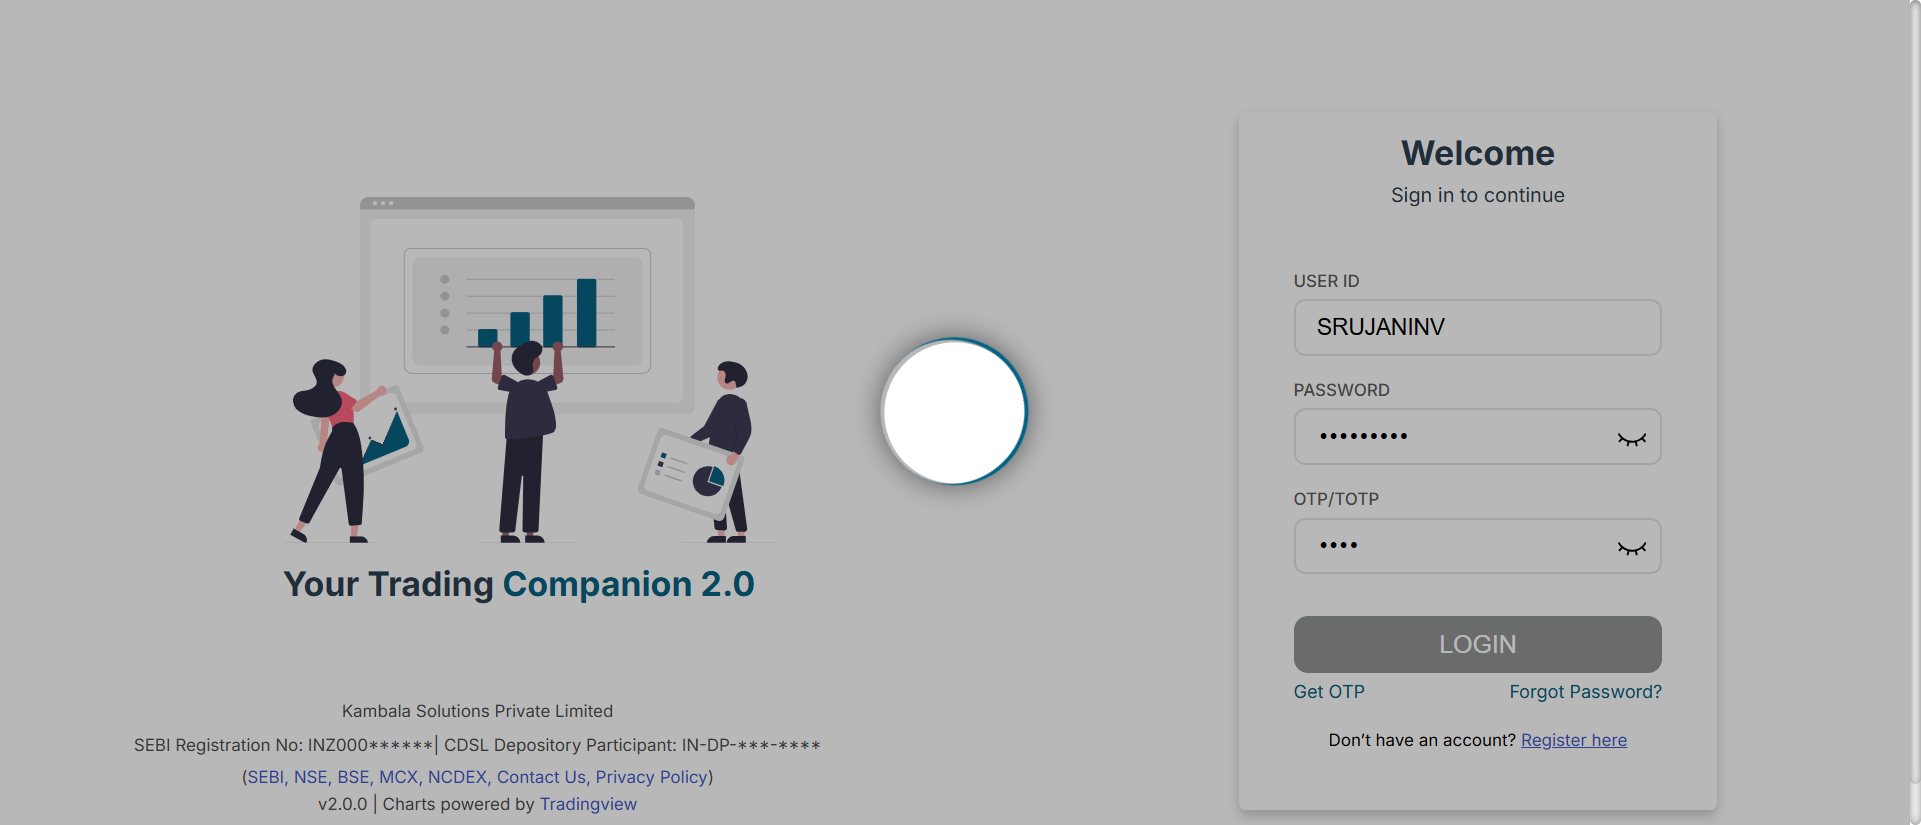
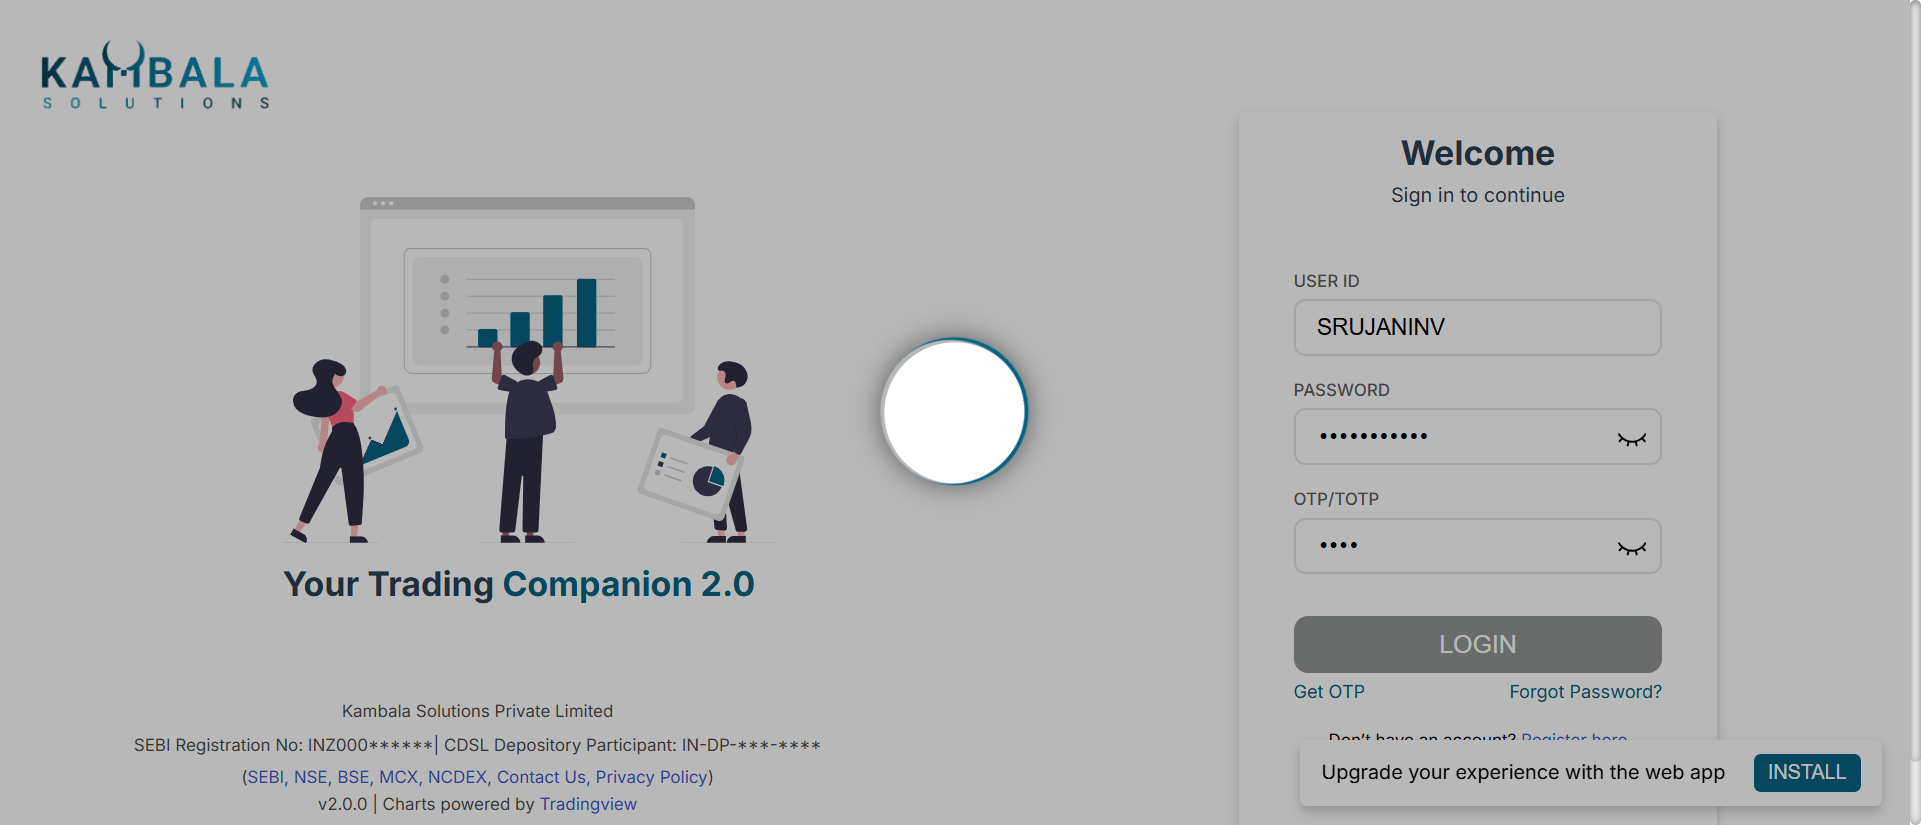
Updated automation project

Changed region(s): [[0.6559, 0.8788, 0.9682, 1.0], [0.0, 0.0606, 0.1562, 0.1212]]

diff --git a/target/surefire-reports/testng-native-results/index.html b/target/surefire-reports/testng-native-results/index.html
@@ -199,12 +199,12 @@ data.addRows(1);
 data.setCell(0, 0, 0)
 data.setCell(0, 1, 'runScenario')
 data.setCell(0, 2, 'runners.TestRunner')
-data.setCell(0, 3, 128884);
+data.setCell(0, 3, 25272);
 window.suiteTableData['Surefire_suite']= { tableData: data, tableDiv: 'times-div-Surefire_suite'}
 return data;
 }
               </script>
-              <span class="suite-total-time">Total running time: 2 minutes</span>
+              <span class="suite-total-time">Total running time: 25 seconds</span>
               <div id="times-div-Surefire_suite">
               </div> <!-- times-div-Surefire_suite -->
             </div> <!-- times-div -->
@@ -232,16 +232,16 @@ return data;
             <div class="chronological-class">
               <div class="chronological-class-name">runners.TestRunner</div> <!-- chronological-class-name -->
               <div class="configuration-class before">
-                <span class="method-name">setUpClass(org.testng.TestRunner@5bbbdd4b)</span>
+                <span class="method-name">setUpClass(org.testng.TestRunner@1c12f3ee)</span>
                 <span class="method-start">0 ms</span>
               </div> <!-- configuration-class before -->
               <div class="test-method">
                 <span class="method-name">runScenario("Open Noren Web", "Noren Web 2.0 Test")</span>
-                <span class="method-start">201 ms</span>
+                <span class="method-start">192 ms</span>
               </div> <!-- test-method -->
               <div class="configuration-class after">
                 <span class="method-name">tearDownClass</span>
-                <span class="method-start">129090 ms</span>
+                <span class="method-start">25468 ms</span>
               </div> <!-- configuration-class after -->
           </div> <!-- main-panel-content rounded-window-bottom -->
         </div> <!-- panel -->

diff --git a/target/surefire-reports/testng-native-results/Surefire suite/Surefire test.html b/target/surefire-reports/testng-native-results/Surefire suite/Surefire test.html
@@ -57,9 +57,9 @@ function toggleAllBoxes() {
 <tr>
 <td>Tests passed/Failed/Skipped:</td><td>1/0/0</td>
 </tr><tr>
-<td>Started on:</td><td>Sat Jul 04 20:19:11 IST 2026</td>
+<td>Started on:</td><td>Tue Jul 07 22:32:17 IST 2026</td>
 </tr>
-<tr><td>Total time:</td><td>129 seconds (129114 ms)</td>
+<tr><td>Total time:</td><td>25 seconds (25487 ms)</td>
 </tr><tr>
 <td>Included groups:</td><td></td>
 </tr><tr>
@@ -78,8 +78,8 @@ function toggleAllBoxes() {
 <tr>
 <td title='runners.TestRunner.runScenario()'><b>runScenario</b><br>Test class: runners.TestRunner<br>Test method: Runs Cucumber Scenarios<br>Parameters: "Open Noren Web", "Noren Web 2.0 Test"</td>
 <td></td>
-<td>128</td>
-<td>runners.TestRunner@548a102f</td></tr>
+<td>25</td>
+<td>runners.TestRunner@f8c1ddd</td></tr>
 </table><p>
 </body>
 </html>

diff --git a/target/surefire-reports/testng-junit-results/Surefire suite/Surefire test.html b/target/surefire-reports/testng-junit-results/Surefire suite/Surefire test.html
@@ -57,9 +57,9 @@ function toggleAllBoxes() {
 <tr>
 <td>Tests passed/Failed/Skipped:</td><td>1/0/0</td>
 </tr><tr>
-<td>Started on:</td><td>Sat Jul 04 20:21:20 IST 2026</td>
+<td>Started on:</td><td>Tue Jul 07 22:32:42 IST 2026</td>
 </tr>
-<tr><td>Total time:</td><td>0 seconds (78 ms)</td>
+<tr><td>Total time:</td><td>0 seconds (37 ms)</td>
 </tr><tr>
 <td>Included groups:</td><td></td>
 </tr><tr>

diff --git a/target/surefire-reports/testng-junit-results/emailable-report.html b/target/surefire-reports/testng-junit-results/emailable-report.html
@@ -9,9 +9,9 @@
 <table>
 <tr><th>Test</th><th># Passed</th><th># Skipped</th><th># Retried</th><th># Failed</th><th>Time (ms)</th><th>Included Groups</th><th>Excluded Groups</th></tr>
 <tr><th colspan="8">Surefire suite</th></tr>
-<tr><td><a href="#t0">Surefire test</a></td><td class="num">1</td><td class="num">0</td><td class="num">0</td><td class="num">0</td><td class="num">78</td><td></td><td></td></tr>
+<tr><td><a href="#t0">Surefire test</a></td><td class="num">1</td><td class="num">0</td><td class="num">0</td><td class="num">0</td><td class="num">37</td><td></td><td></td></tr>
 </table>
-<table id='summary'><thead><tr><th>Class</th><th>Method</th><th>Start</th><th>Time (ms)</th></tr></thead><tbody><tr><th colspan="4">Surefire suite</th></tr></tbody><tbody id="t0"><tr><th colspan="4">Surefire test &#8212; passed</th></tr><tr class="passedeven"><td rowspan="1">web.example.AppTest</td><td><a href="#m0">shouldAnswerWithTrue</a></td><td rowspan="1">1783176680985</td><td rowspan="1">11</td></tr></tbody>
+<table id='summary'><thead><tr><th>Class</th><th>Method</th><th>Start</th><th>Time (ms)</th></tr></thead><tbody><tr><th colspan="4">Surefire suite</th></tr></tbody><tbody id="t0"><tr><th colspan="4">Surefire test &#8212; passed</th></tr><tr class="passedeven"><td rowspan="1">web.example.AppTest</td><td><a href="#m0">shouldAnswerWithTrue</a></td><td rowspan="1">1783443762964</td><td rowspan="1">8</td></tr></tbody>
 </table>
 <h2>Surefire test</h2><h3 id="m0">web.example.AppTest#shouldAnswerWithTrue</h3><table class="result"><tr><th class="invisible"/></tr></table><p class="totop"><a href="#summary">back to summary</a></p>
 </body>

diff --git a/target/surefire-reports/testng-junit-results/index.html b/target/surefire-reports/testng-junit-results/index.html
@@ -188,12 +188,12 @@ data.addRows(1);
 data.setCell(0, 0, 0)
 data.setCell(0, 1, 'shouldAnswerWithTrue')
 data.setCell(0, 2, 'web.example.AppTest')
-data.setCell(0, 3, 11);
+data.setCell(0, 3, 8);
 window.suiteTableData['Surefire_suite']= { tableData: data, tableDiv: 'times-div-Surefire_suite'}
 return data;
 }
               </script>
-              <span class="suite-total-time">Total running time: 11 ms</span>
+              <span class="suite-total-time">Total running time: 8 ms</span>
               <div id="times-div-Surefire_suite">
               </div> <!-- times-div-Surefire_suite -->
             </div> <!-- times-div -->

diff --git a/target/surefire-reports/testng-native-results/emailable-report.html b/target/surefire-reports/testng-native-results/emailable-report.html
@@ -9,9 +9,9 @@
 <table>
 <tr><th>Test</th><th># Passed</th><th># Skipped</th><th># Retried</th><th># Failed</th><th>Time (ms)</th><th>Included Groups</th><th>Excluded Groups</th></tr>
 <tr><th colspan="8">Surefire suite</th></tr>
-<tr><td><a href="#t0">Surefire test</a></td><td class="num">1</td><td class="num">0</td><td class="num">0</td><td class="num">0</td><td class="num">129,114</td><td></td><td></td></tr>
+<tr><td><a href="#t0">Surefire test</a></td><td class="num">1</td><td class="num">0</td><td class="num">0</td><td class="num">0</td><td class="num">25,487</td><td></td><td></td></tr>
 </table>
-<table id='summary'><thead><tr><th>Class</th><th>Method</th><th>Start</th><th>Time (ms)</th></tr></thead><tbody><tr><th colspan="4">Surefire suite</th></tr></tbody><tbody id="t0"><tr><th colspan="4">Surefire test &#8212; passed</th></tr><tr class="passedeven"><td rowspan="1">runners.TestRunner</td><td><a href="#m0">runScenario</a></td><td rowspan="1">1783176551832</td><td rowspan="1">128884</td></tr></tbody>
+<table id='summary'><thead><tr><th>Class</th><th>Method</th><th>Start</th><th>Time (ms)</th></tr></thead><tbody><tr><th colspan="4">Surefire suite</th></tr></tbody><tbody id="t0"><tr><th colspan="4">Surefire test &#8212; passed</th></tr><tr class="passedeven"><td rowspan="1">runners.TestRunner</td><td><a href="#m0">runScenario</a></td><td rowspan="1">1783443737493</td><td rowspan="1">25272</td></tr></tbody>
 </table>
 <h2>Surefire test</h2><h3 id="m0">runners.TestRunner#runScenario</h3><table class="result"><tr class="param"><th>Parameter #1</th><th>Parameter #2</th></tr><tr class="param stripe"><td>&quot;Open Noren Web&quot;</td><td>&quot;Noren Web 2.0 Test&quot;</td></tr></table><p class="totop"><a href="#summary">back to summary</a></p>
 </body>

diff --git a/src/test/java/stepdefinitions/NorenSteps.java b/src/test/java/stepdefinitions/NorenSteps.java
@@ -1,9 +1,16 @@
 package stepdefinitions;
 
 import io.cucumber.java.en.*;
+import java.time.Duration;
+import java.util.List;
+
+import org.openqa.selenium.support.ui.WebDriverWait;
+import org.openqa.selenium.support.ui.ExpectedConditions;
 
 import java.io.File;
 import java.io.IOException;
+import org.openqa.selenium.WebElement;
+import org.openqa.selenium.interactions.Actions;
 
 import org.openqa.selenium.By;
 import org.openqa.selenium.WebDriver;
@@ -61,6 +68,80 @@ public class NorenSteps {
     public void user_clicks_login() {
         driver.findElement(By.className("lgnBtnClss")).click();
     }
+
+    @And("add Scrip to MW")
+    public void add_scrip_to_mw() {
+    WebDriverWait wait = new WebDriverWait(driver, Duration.ofSeconds(20));
+    wait.until(ExpectedConditions.elementToBeClickable(
+            By.className("close-btn"))).click();
+}
+    @And("Add Scrip")
+    public void add_scrip() throws InterruptedException {
+         WebDriverWait wait = new WebDriverWait(driver, Duration.ofSeconds(10));
+
+    // Click search icon
+    wait.until(ExpectedConditions.elementToBeClickable(By.id("srch"))).click();
+    Thread.sleep(5000); // Wait for the search input to appear
+
+    // Type ACC
+    wait.until(ExpectedConditions.visibilityOfElementLocated(By.id("searchInput")))
+        .sendKeys("CAMS-EQ");
+        Thread.sleep(5000);
+
+    // Click ACC-EQ result
+    wait.until(ExpectedConditions.elementToBeClickable(
+        By.xpath("//div[text()='CAMS-EQ']")))
+        .click();
+        Thread.sleep(5000);
+    }
+    @And("Close Search")
+    public void close_search() {
+        WebDriverWait wait = new WebDriverWait(driver, Duration.ofSeconds(10));
+
+    // Close search
+    wait.until(ExpectedConditions.elementToBeClickable(
+        By.className("close-btn")
+    )).click();
+
+    // Hover on ACC-EQ after closing
+    WebElement accScript = wait.until(
+        ExpectedConditions.visibilityOfElementLocated(
+            By.xpath("//span[@class='rowhvr' and text()='CAMS-EQ']")
+        )
+    );
+
+    Actions actions = new Actions(driver);
+    actions.moveToElement(accScript).perform();
+
+    // WebDriverWait wait = new WebDriverWait(driver, Duration.ofSeconds(10));
+
+wait.until(ExpectedConditions.elementToBeClickable(
+    By.id("buyClick")
+)).click();
+
+wait.until(ExpectedConditions.visibilityOfElementLocated(
+    By.xpath("//div[contains(text(),'Buy Order Entry')]")
+));
+
+// Find Qty and Price fields
+List<WebElement> orderInputs = wait.until(
+    ExpectedConditions.visibilityOfAllElementsLocatedBy(
+        By.cssSelector("input.inputWithIcon")
+    )
+);
+
+// Qty
+orderInputs.get(0).sendKeys("10");
+
+// Price
+orderInputs.get(1).sendKeys("740");
+
+// WebDriverWait wait = new WebDriverWait(driver, Duration.ofSeconds(10));
+
+wait.until(ExpectedConditions.elementToBeClickable(
+    By.cssSelector("button.placeBtnBClass")
+)).click();
+}
 
     @Then("title should contain {string}")
 public void title_should_contain(String expectedTitle) {

diff --git a/src/test/java/web/example/AppTest.java b/src/test/java/web/example/AppTest.java
@@ -18,3 +18,4 @@ public class AppTest
         assertTrue( true );
     }
 }
+//  https://github.com/Srujan-Shetty/Selenium-Web-Automation